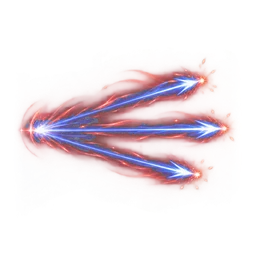
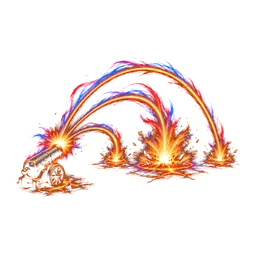
[디자인팀] 한국 대표 그림·자세·거북선 효과 src 반영, 나라별 장수 스킬 기획 인수인계
Claude-Session: https://claude.ai/code/session_013M9CK1DXpnv28ZtJdsmhuH

Changed region(s): [[0.0625, 0.2188, 0.9375, 0.7812]]

diff --git a/teams/2-디자인/작업기록.md b/teams/2-디자인/작업기록.md
@@ -193,3 +193,4 @@
 - GPT 한도(kim 계정) 걸림 02:5x UTC, Codex 안내 '오후 3:24 다시'. 멈춤. 된 것: 한국 대표 그림 2장(round16/rep, 미리보기 preview-rep.png), 나안 자세 한국 3방향, 체코 방패 mid4·walkAB. 남은 GPT: 체코 walkCD 1 + 방패 5개국 15 + 자세 스위스·룩셈부르크 6 + 효과 3 = 25번.
 - 팀장(dhk) 결과 점검: 방패 6개국 새 칸 모두 방패 OK, 자세 스위스·룩셈부르크 OK(룩셈부르크 아래 망토 퍼져 ~5% 커 보임), 효과 3개(한국 1칸 화살비 잔재 → 5칸으로), 손 위치 표 3나라 완성. 납품 준비 round16/deliver/(pose 12칸 자세 우선 순서, seq). 미리보기 preview/r16-check.html 팀장에게.
 - 외계인 반응 8칸 점검(팀장 dhk e3cc95c): 그림체·색 맞음, 5칸은 한 다리로 버티며 뒤로 젖혀 선 자세(지지발 바닥선 맞음) → OK. 미리보기 r16-check에 5번 절 추가.
+- 사용자 '한국 아주 좋아' → 한국 시험 그림 src/assets 반영: skill/u/korea-1·2(새 대표, 백업 backup/skill-u/*.orig.20261127.webp), pose/korea.webp(12칸), skill/seq/korea-1.webp(5칸). '각 나라도 유명한 장수 스킬로' → 기획팀 인수인계.

diff --git a/STATUS.md b/STATUS.md
@@ -45,6 +45,7 @@
 | 2026-11-24 | 보상형 광고: 장수가 쓰러지면 이어하기 1회 | 사용자 결정 |
 
 ## 인수인계
+- (디자인 → 기획·팀장) **각 나라도 유명한 장수 기준 스킬로 (2026-11-27 사용자 "한국 아주 좋아, 각 나라도 유명한 장수의 스킬을 만들어주면 그게 최고지")** — 한국(거북선 돌격·천자총통 포격)처럼 나라마다 이름난 장수의 일화·전법에서 스킬 2개 시안을 기획팀이 짜 주세요(게임 안에 실존 인물 이름은 안 씀, GDD 0-20 규칙 그대로). 정해지면 디자인팀이 대표 그림·효과 연속 그림·시전 규격을 이어서 해요. 한국 시험 그림(대표 2장·자세·거북선 효과 5칸)은 src/assets에 넣었어요.
 
 - (기획 → 디자인·개발) **한국 스킬 다시 짜기 (2026-11-27, 사용자 "이순신 기준으로 시안" → "추천대로")** · `skills-unique.md` 15번 두 행 · 시안 `teams/1-기획/시안/korea-yi/시안.md`
   - 1번 **거북선 돌격**(돌진): 거북선 모양 기운과 함께 고른 자리까지 밀고 나가 끝에서 용머리 연기 부채꼴. 피해 [제안] 돌진 ×0.6 + 연기 ×0.4
